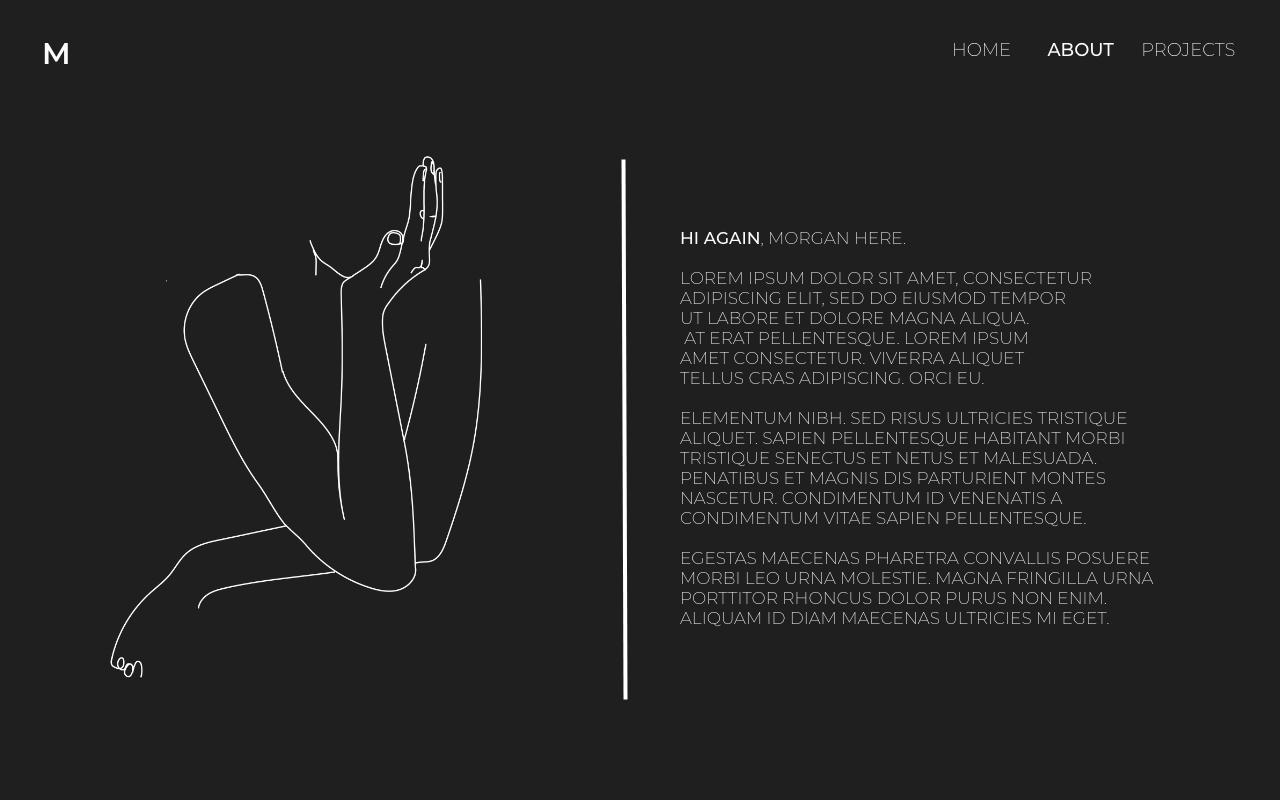
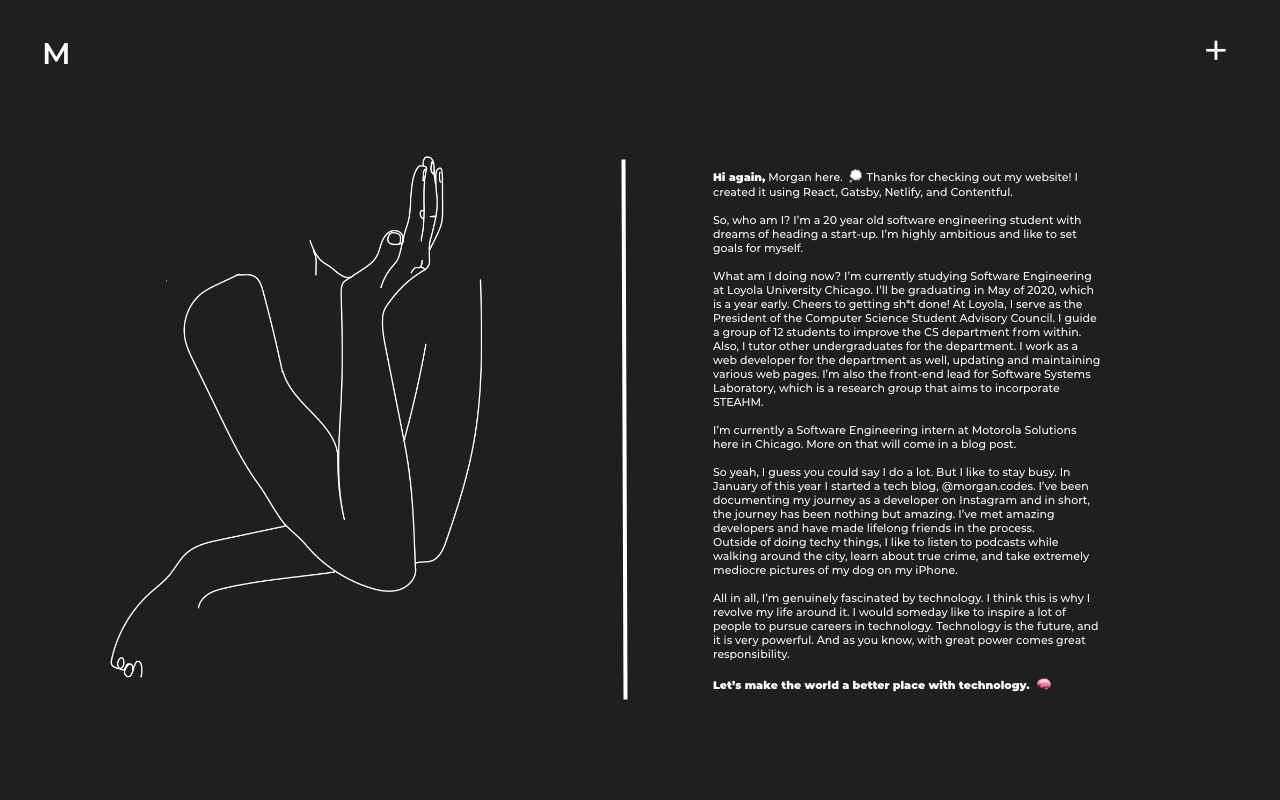
Updating mockups

diff --git a/README.md b/README.md
@@ -7,6 +7,9 @@ This portfolio is a work in progress. My current portfolio is hosted [here](http
 ##### Home
 ![Home screenshot](mockups/Landing.png)
 
+##### Navbar
+![Home screenshot](mockups/Navbar.png)
+
 ##### About
 ![Home screenshot](mockups/About.png)
 
